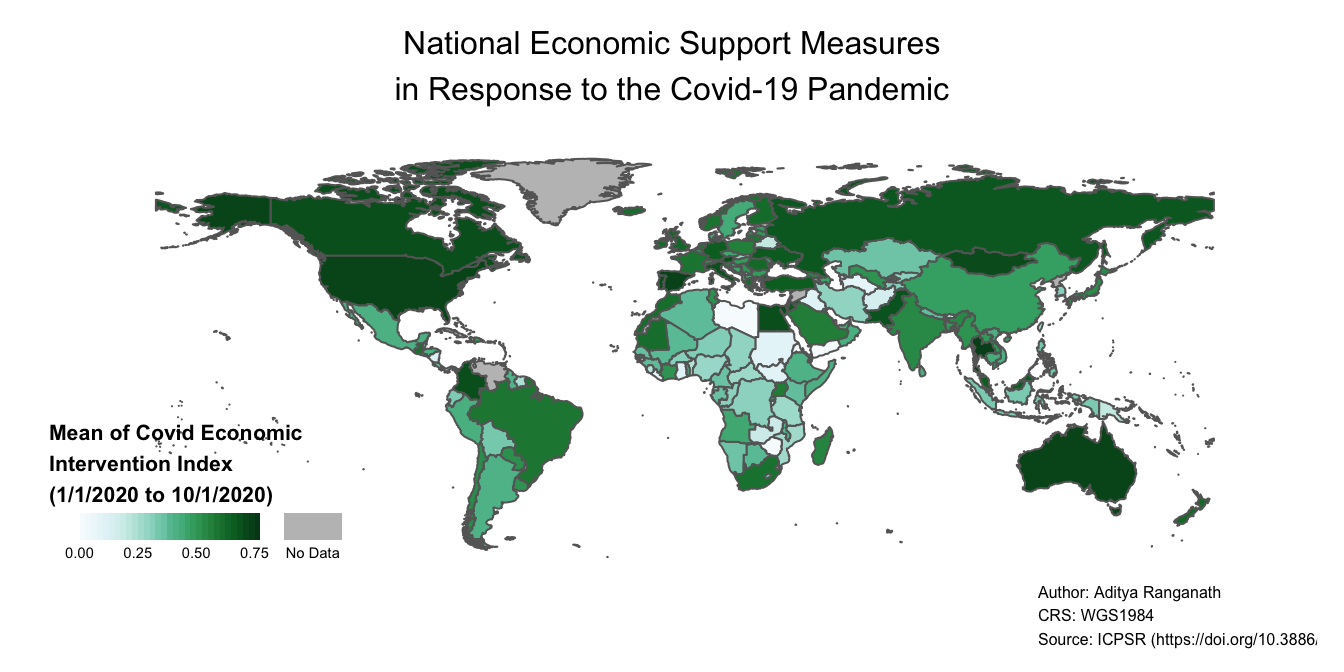
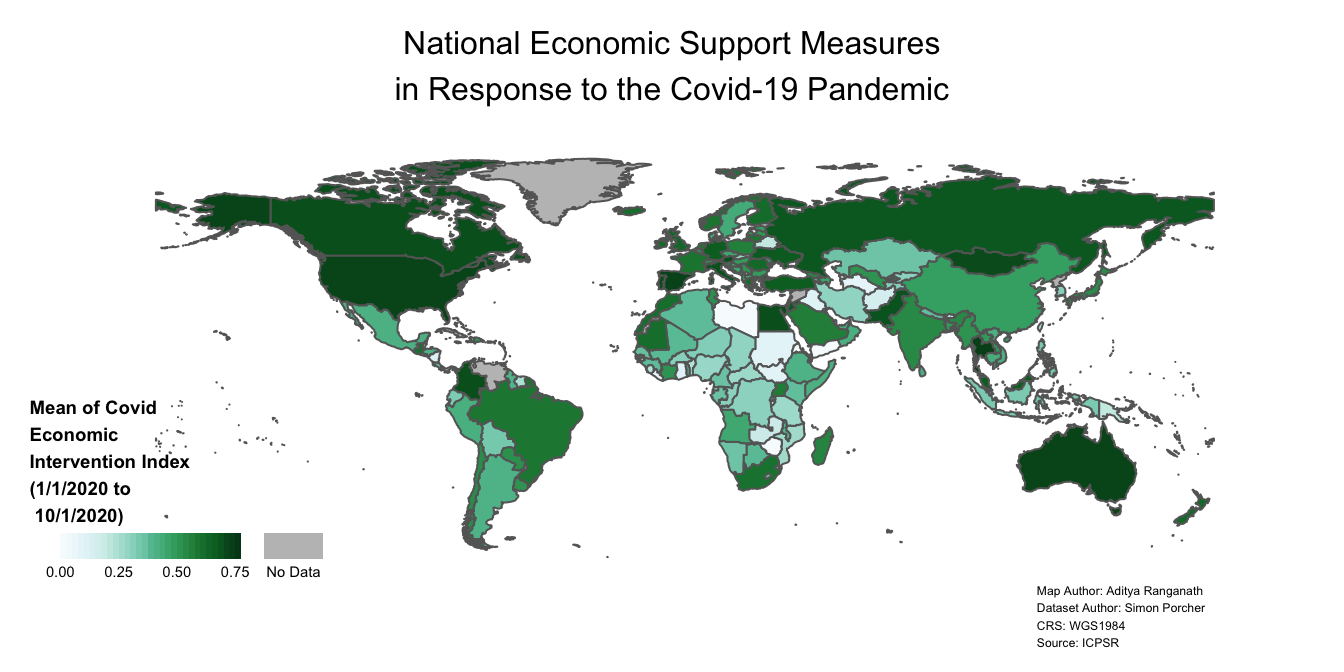
modifies legend code

Changed region(s): [[0.0, 0.5938, 0.2812, 0.875], [0.75, 0.875, 1.0, 0.9688]]

diff --git a/docs/tutorial.html b/docs/tutorial.html
@@ -492,15 +492,15 @@ The <code>tm_polygons</code> function can take a variety of arguments that can h
 <span id="cb41-3"><a href="tutorial.html#cb41-3" aria-hidden="true" tabindex="-1"></a>                                  <span class="at">style=</span><span class="st">&quot;cont&quot;</span>, </span>
 <span id="cb41-4"><a href="tutorial.html#cb41-4" aria-hidden="true" tabindex="-1"></a>                                  <span class="at">palette=</span><span class="st">&quot;BuGn&quot;</span>, </span>
 <span id="cb41-5"><a href="tutorial.html#cb41-5" aria-hidden="true" tabindex="-1"></a>                                  <span class="at">textNA=</span><span class="st">&quot;No Data&quot;</span>, </span>
-<span id="cb41-6"><a href="tutorial.html#cb41-6" aria-hidden="true" tabindex="-1"></a>                                  <span class="at">title=</span><span class="st">&quot;Mean of Covid Economic</span><span class="sc">\n</span><span class="st">Intervention Index</span><span class="sc">\n</span><span class="st">(1/1/2020 to 10/1/2020)&quot;</span>, </span>
+<span id="cb41-6"><a href="tutorial.html#cb41-6" aria-hidden="true" tabindex="-1"></a>                                  <span class="at">title=</span><span class="st">&quot;Mean of Covid</span><span class="sc">\n</span><span class="st">Economic</span><span class="sc">\n</span><span class="st">Intervention Index</span><span class="sc">\n</span><span class="st">(1/1/2020 to</span><span class="sc">\n</span><span class="st"> 10/1/2020)&quot;</span>, </span>
 <span id="cb41-7"><a href="tutorial.html#cb41-7" aria-hidden="true" tabindex="-1"></a>                                  <span class="at">legend.is.portrait=</span><span class="cn">FALSE</span>,</span>
 <span id="cb41-8"><a href="tutorial.html#cb41-8" aria-hidden="true" tabindex="-1"></a>                                  <span class="at">breaks=</span><span class="fu">c</span>(<span class="dv">0</span>,<span class="fl">0.25</span>,<span class="fl">0.5</span>, <span class="fl">0.75</span>))<span class="sc">+</span></span>
-<span id="cb41-9"><a href="tutorial.html#cb41-9" aria-hidden="true" tabindex="-1"></a>                      <span class="fu">tm_layout</span>(<span class="at">legend.title.size=</span><span class="fl">0.8</span>, </span>
+<span id="cb41-9"><a href="tutorial.html#cb41-9" aria-hidden="true" tabindex="-1"></a>                      <span class="fu">tm_layout</span>(<span class="at">legend.title.size=</span><span class="fl">0.7</span>, </span>
 <span id="cb41-10"><a href="tutorial.html#cb41-10" aria-hidden="true" tabindex="-1"></a>                                <span class="at">legend.title.fontface=</span><span class="dv">2</span>,</span>
-<span id="cb41-11"><a href="tutorial.html#cb41-11" aria-hidden="true" tabindex="-1"></a>                                <span class="at">legend.position =</span> <span class="fu">c</span>(<span class="st">&quot;left&quot;</span>, <span class="st">&quot;bottom&quot;</span>), </span>
+<span id="cb41-11"><a href="tutorial.html#cb41-11" aria-hidden="true" tabindex="-1"></a>                                <span class="at">legend.position =</span> <span class="fu">c</span>(<span class="dv">0</span>, <span class="dv">0</span>), </span>
 <span id="cb41-12"><a href="tutorial.html#cb41-12" aria-hidden="true" tabindex="-1"></a>                                <span class="at">frame=</span><span class="cn">FALSE</span>, </span>
 <span id="cb41-13"><a href="tutorial.html#cb41-13" aria-hidden="true" tabindex="-1"></a>                                <span class="at">legend.text.size =</span> <span class="fl">0.5</span>,</span>
-<span id="cb41-14"><a href="tutorial.html#cb41-14" aria-hidden="true" tabindex="-1"></a>                                <span class="at">legend.hist.size =</span> <span class="fl">0.5</span>)</span>
+<span id="cb41-14"><a href="tutorial.html#cb41-14" aria-hidden="true" tabindex="-1"></a>                                <span class="at">legend.width =</span> <span class="fl">0.35</span>)</span>
 <span id="cb41-15"><a href="tutorial.html#cb41-15" aria-hidden="true" tabindex="-1"></a>covid_economic_map</span></code></pre></div>
 <p><img src="bookdownproj_files/figure-html/unnamed-chunk-50-1.png" width="672" /></p>
 <p>Let’s unpack this code; for the sake of completeness, we’ll go over all of the functions and arguments, rather than just the code that implements the changes mentioned above.</p>
@@ -535,37 +535,39 @@ The <code>tm_polygons</code> function can take a variety of arguments that can h
 <div class="sourceCode" id="cb42"><pre class="sourceCode r"><code class="sourceCode r"><span id="cb42-1"><a href="tutorial.html#cb42-1" aria-hidden="true" tabindex="-1"></a>covid_economic_map<span class="ot">&lt;-</span>covid_economic_map<span class="sc">+</span></span>
 <span id="cb42-2"><a href="tutorial.html#cb42-2" aria-hidden="true" tabindex="-1"></a>                       <span class="fu">tm_layout</span>(<span class="at">main.title=</span><span class="st">&quot;National Economic Support Measures</span><span class="sc">\n</span><span class="st">in Response to the Covid-19 Pandemic&quot;</span>, </span>
 <span id="cb42-3"><a href="tutorial.html#cb42-3" aria-hidden="true" tabindex="-1"></a>                                 <span class="at">main.title.position=</span><span class="st">&quot;center&quot;</span>,</span>
-<span id="cb42-4"><a href="tutorial.html#cb42-4" aria-hidden="true" tabindex="-1"></a>                                 <span class="at">main.title.size=</span><span class="dv">1</span>, <span class="at">inner.margins=</span><span class="fu">c</span>(<span class="fl">0.06</span>,<span class="fl">0.10</span>,<span class="fl">0.10</span>,<span class="fl">0.08</span>), </span>
-<span id="cb42-5"><a href="tutorial.html#cb42-5" aria-hidden="true" tabindex="-1"></a>                                 <span class="at">attr.outside =</span> <span class="cn">TRUE</span>)<span class="sc">+</span></span>
-<span id="cb42-6"><a href="tutorial.html#cb42-6" aria-hidden="true" tabindex="-1"></a>                        <span class="fu">tm_credits</span>(<span class="st">&quot;Author: Aditya Ranganath</span><span class="sc">\n</span><span class="st">CRS: WGS1984</span><span class="sc">\n</span><span class="st">Source: ICPSR (https://doi.org/10.3886/E119061V6)&quot;</span>, </span>
-<span id="cb42-7"><a href="tutorial.html#cb42-7" aria-hidden="true" tabindex="-1"></a>                                   <span class="at">position=</span><span class="fu">c</span>(<span class="fl">0.78</span>,<span class="fl">0.01</span>), <span class="at">size=</span><span class="fl">0.5</span>)</span>
-<span id="cb42-8"><a href="tutorial.html#cb42-8" aria-hidden="true" tabindex="-1"></a>  </span>
-<span id="cb42-9"><a href="tutorial.html#cb42-9" aria-hidden="true" tabindex="-1"></a>covid_economic_map </span></code></pre></div>
-<p><img src="bookdownproj_files/figure-html/unnamed-chunk-51-1.png" width="1152" /></p>
+<span id="cb42-4"><a href="tutorial.html#cb42-4" aria-hidden="true" tabindex="-1"></a>                                 <span class="at">main.title.size=</span><span class="dv">1</span>, </span>
+<span id="cb42-5"><a href="tutorial.html#cb42-5" aria-hidden="true" tabindex="-1"></a>                                 <span class="at">inner.margins=</span><span class="fu">c</span>(<span class="fl">0.06</span>,<span class="fl">0.10</span>,<span class="fl">0.10</span>,<span class="fl">0.08</span>), </span>
+<span id="cb42-6"><a href="tutorial.html#cb42-6" aria-hidden="true" tabindex="-1"></a>                                 <span class="at">attr.outside =</span> <span class="cn">TRUE</span>)<span class="sc">+</span></span>
+<span id="cb42-7"><a href="tutorial.html#cb42-7" aria-hidden="true" tabindex="-1"></a>                        <span class="fu">tm_credits</span>(<span class="st">&quot;Map Author: Aditya Ranganath</span><span class="sc">\n</span><span class="st">Dataset Author: Simon Porcher</span><span class="sc">\n</span><span class="st">CRS: WGS1984</span><span class="sc">\n</span><span class="st">Source: ICPSR&quot;</span>, </span>
+<span id="cb42-8"><a href="tutorial.html#cb42-8" aria-hidden="true" tabindex="-1"></a>                                   <span class="at">position=</span><span class="fu">c</span>(<span class="fl">0.78</span>,<span class="dv">0</span>), <span class="at">size=</span><span class="fl">0.38</span>)</span>
+<span id="cb42-9"><a href="tutorial.html#cb42-9" aria-hidden="true" tabindex="-1"></a>  </span>
+<span id="cb42-10"><a href="tutorial.html#cb42-10" aria-hidden="true" tabindex="-1"></a>covid_economic_map </span></code></pre></div>
+<p><img src="bookdownproj_files/figure-html/unnamed-chunk-51-1.png" width="672" /></p>
+<p>Final code</p>
 <div class="sourceCode" id="cb43"><pre class="sourceCode r"><code class="sourceCode r"><span id="cb43-1"><a href="tutorial.html#cb43-1" aria-hidden="true" tabindex="-1"></a>covid_economic_map<span class="ot">&lt;-</span> <span class="fu">tm_shape</span>(worldmap_covid_data_economic)<span class="sc">+</span></span>
-<span id="cb43-2"><a href="tutorial.html#cb43-2" aria-hidden="true" tabindex="-1"></a>                      <span class="fu">tm_polygons</span>(<span class="at">col=</span><span class="st">&quot;mean_economic&quot;</span>, </span>
-<span id="cb43-3"><a href="tutorial.html#cb43-3" aria-hidden="true" tabindex="-1"></a>                                  <span class="at">style=</span><span class="st">&quot;cont&quot;</span>, </span>
-<span id="cb43-4"><a href="tutorial.html#cb43-4" aria-hidden="true" tabindex="-1"></a>                                  <span class="at">palette=</span><span class="st">&quot;BuGn&quot;</span>, </span>
-<span id="cb43-5"><a href="tutorial.html#cb43-5" aria-hidden="true" tabindex="-1"></a>                                  <span class="at">textNA=</span><span class="st">&quot;No Data&quot;</span>, </span>
-<span id="cb43-6"><a href="tutorial.html#cb43-6" aria-hidden="true" tabindex="-1"></a>                                  <span class="at">title=</span><span class="st">&quot;Mean of Covid Economic</span><span class="sc">\n</span><span class="st">Intervention Index</span><span class="sc">\n</span><span class="st">(1/1/2020 to 10/1/2020)&quot;</span>, </span>
-<span id="cb43-7"><a href="tutorial.html#cb43-7" aria-hidden="true" tabindex="-1"></a>                                  <span class="at">legend.is.portrait=</span><span class="cn">FALSE</span>,</span>
-<span id="cb43-8"><a href="tutorial.html#cb43-8" aria-hidden="true" tabindex="-1"></a>                                  <span class="at">breaks=</span><span class="fu">c</span>(<span class="dv">0</span>,<span class="fl">0.25</span>,<span class="fl">0.5</span>, <span class="fl">0.75</span>))<span class="sc">+</span></span>
-<span id="cb43-9"><a href="tutorial.html#cb43-9" aria-hidden="true" tabindex="-1"></a>                        <span class="fu">tm_layout</span>(<span class="at">legend.title.size=</span><span class="fl">0.8</span>, </span>
-<span id="cb43-10"><a href="tutorial.html#cb43-10" aria-hidden="true" tabindex="-1"></a>                                  <span class="at">legend.title.fontface=</span><span class="dv">2</span>,</span>
-<span id="cb43-11"><a href="tutorial.html#cb43-11" aria-hidden="true" tabindex="-1"></a>                                  <span class="at">legend.position =</span> <span class="fu">c</span>(<span class="st">&quot;left&quot;</span>, <span class="st">&quot;bottom&quot;</span>), </span>
-<span id="cb43-12"><a href="tutorial.html#cb43-12" aria-hidden="true" tabindex="-1"></a>                                  <span class="at">frame=</span><span class="cn">FALSE</span>, </span>
-<span id="cb43-13"><a href="tutorial.html#cb43-13" aria-hidden="true" tabindex="-1"></a>                                  <span class="at">legend.text.size =</span> <span class="fl">0.5</span>,</span>
-<span id="cb43-14"><a href="tutorial.html#cb43-14" aria-hidden="true" tabindex="-1"></a>                                  <span class="at">legend.hist.size =</span> <span class="fl">0.5</span>,</span>
-<span id="cb43-15"><a href="tutorial.html#cb43-15" aria-hidden="true" tabindex="-1"></a>                                  <span class="at">main.title=</span><span class="st">&quot;National Economic Support Measures</span><span class="sc">\n</span><span class="st">in Response to the Covid-19 Pandemic&quot;</span>, </span>
-<span id="cb43-16"><a href="tutorial.html#cb43-16" aria-hidden="true" tabindex="-1"></a>                                 <span class="at">main.title.position=</span><span class="st">&quot;center&quot;</span>,</span>
-<span id="cb43-17"><a href="tutorial.html#cb43-17" aria-hidden="true" tabindex="-1"></a>                                 <span class="at">main.title.size=</span><span class="dv">1</span>, <span class="at">inner.margins=</span><span class="fu">c</span>(<span class="fl">0.06</span>,<span class="fl">0.10</span>,<span class="fl">0.10</span>,<span class="fl">0.08</span>), </span>
-<span id="cb43-18"><a href="tutorial.html#cb43-18" aria-hidden="true" tabindex="-1"></a>                                 <span class="at">attr.outside =</span> <span class="cn">TRUE</span>)<span class="sc">+</span></span>
-<span id="cb43-19"><a href="tutorial.html#cb43-19" aria-hidden="true" tabindex="-1"></a>                    <span class="fu">tm_credits</span>(<span class="st">&quot;Author: Aditya Ranganath</span><span class="sc">\n</span><span class="st">CRS: WGS1984</span><span class="sc">\n</span><span class="st">Source: ICPSR (https://doi.org/10.3886/E119061V6)&quot;</span>, </span>
-<span id="cb43-20"><a href="tutorial.html#cb43-20" aria-hidden="true" tabindex="-1"></a>                                 <span class="at">position=</span><span class="fu">c</span>(<span class="fl">0.78</span>,<span class="fl">0.01</span>), </span>
-<span id="cb43-21"><a href="tutorial.html#cb43-21" aria-hidden="true" tabindex="-1"></a>                                 <span class="at">size=</span><span class="fl">0.5</span>)</span>
-<span id="cb43-22"><a href="tutorial.html#cb43-22" aria-hidden="true" tabindex="-1"></a>covid_economic_map</span></code></pre></div>
+<span id="cb43-2"><a href="tutorial.html#cb43-2" aria-hidden="true" tabindex="-1"></a>  <span class="fu">tm_polygons</span>(<span class="at">col=</span><span class="st">&quot;mean_economic&quot;</span>, </span>
+<span id="cb43-3"><a href="tutorial.html#cb43-3" aria-hidden="true" tabindex="-1"></a>              <span class="at">style=</span><span class="st">&quot;cont&quot;</span>, </span>
+<span id="cb43-4"><a href="tutorial.html#cb43-4" aria-hidden="true" tabindex="-1"></a>              <span class="at">palette=</span><span class="st">&quot;BuGn&quot;</span>, </span>
+<span id="cb43-5"><a href="tutorial.html#cb43-5" aria-hidden="true" tabindex="-1"></a>              <span class="at">textNA=</span><span class="st">&quot;No Data&quot;</span>, </span>
+<span id="cb43-6"><a href="tutorial.html#cb43-6" aria-hidden="true" tabindex="-1"></a>              <span class="at">title=</span><span class="st">&quot;Mean of Covid</span><span class="sc">\n</span><span class="st">Economic</span><span class="sc">\n</span><span class="st">Intervention Index</span><span class="sc">\n</span><span class="st">(1/1/2020 to</span><span class="sc">\n</span><span class="st"> 10/1/2020)&quot;</span>, </span>
+<span id="cb43-7"><a href="tutorial.html#cb43-7" aria-hidden="true" tabindex="-1"></a>              <span class="at">legend.is.portrait=</span><span class="cn">FALSE</span>,</span>
+<span id="cb43-8"><a href="tutorial.html#cb43-8" aria-hidden="true" tabindex="-1"></a>              <span class="at">breaks=</span><span class="fu">c</span>(<span class="dv">0</span>,<span class="fl">0.25</span>,<span class="fl">0.5</span>, <span class="fl">0.75</span>))<span class="sc">+</span></span>
+<span id="cb43-9"><a href="tutorial.html#cb43-9" aria-hidden="true" tabindex="-1"></a>  <span class="fu">tm_layout</span>(<span class="at">legend.title.size=</span><span class="fl">0.7</span>, </span>
+<span id="cb43-10"><a href="tutorial.html#cb43-10" aria-hidden="true" tabindex="-1"></a>            <span class="at">legend.title.fontface=</span><span class="dv">2</span>,</span>
+<span id="cb43-11"><a href="tutorial.html#cb43-11" aria-hidden="true" tabindex="-1"></a>            <span class="at">legend.position =</span> <span class="fu">c</span>(<span class="dv">0</span>,<span class="dv">0</span>), </span>
+<span id="cb43-12"><a href="tutorial.html#cb43-12" aria-hidden="true" tabindex="-1"></a>            <span class="at">frame=</span><span class="cn">FALSE</span>, </span>
+<span id="cb43-13"><a href="tutorial.html#cb43-13" aria-hidden="true" tabindex="-1"></a>            <span class="at">legend.text.size =</span> <span class="fl">0.5</span>,</span>
+<span id="cb43-14"><a href="tutorial.html#cb43-14" aria-hidden="true" tabindex="-1"></a>            <span class="at">legend.width=</span><span class="fl">0.35</span>,</span>
+<span id="cb43-15"><a href="tutorial.html#cb43-15" aria-hidden="true" tabindex="-1"></a>            <span class="at">main.title=</span><span class="st">&quot;National Economic Support Measures</span><span class="sc">\n</span><span class="st">in Response to the Covid-19 Pandemic&quot;</span>, </span>
+<span id="cb43-16"><a href="tutorial.html#cb43-16" aria-hidden="true" tabindex="-1"></a>            <span class="at">main.title.position=</span><span class="st">&quot;center&quot;</span>,</span>
+<span id="cb43-17"><a href="tutorial.html#cb43-17" aria-hidden="true" tabindex="-1"></a>            <span class="at">main.title.size=</span><span class="dv">1</span>, <span class="at">inner.margins=</span><span class="fu">c</span>(<span class="fl">0.06</span>,<span class="fl">0.10</span>,<span class="fl">0.10</span>,<span class="fl">0.08</span>), </span>
+<span id="cb43-18"><a href="tutorial.html#cb43-18" aria-hidden="true" tabindex="-1"></a>            <span class="at">attr.outside =</span> <span class="cn">TRUE</span>)<span class="sc">+</span></span>
+<span id="cb43-19"><a href="tutorial.html#cb43-19" aria-hidden="true" tabindex="-1"></a>  <span class="fu">tm_credits</span>(<span class="st">&quot;Map Author: Aditya Ranganath</span><span class="sc">\n</span><span class="st">Dataset Author: Simon Porcher</span><span class="sc">\n</span><span class="st">CRS: WGS1984</span><span class="sc">\n</span><span class="st">Source: ICPSR&quot;</span>, </span>
+<span id="cb43-20"><a href="tutorial.html#cb43-20" aria-hidden="true" tabindex="-1"></a>            <span class="at">position=</span><span class="fu">c</span>(<span class="fl">0.78</span>,<span class="dv">0</span>), </span>
+<span id="cb43-21"><a href="tutorial.html#cb43-21" aria-hidden="true" tabindex="-1"></a>            <span class="at">size=</span><span class="fl">0.38</span>)</span>
+<span id="cb43-22"><a href="tutorial.html#cb43-22" aria-hidden="true" tabindex="-1"></a></span>
+<span id="cb43-23"><a href="tutorial.html#cb43-23" aria-hidden="true" tabindex="-1"></a>covid_economic_map</span></code></pre></div>
 <p><img src="bookdownproj_files/figure-html/unnamed-chunk-52-1.png" width="672" /></p>
-<p>r</p>
 </div>
 </div>
 <div id="export-your-map" class="section level2" number="4.6">
@@ -576,12 +578,6 @@ The <code>tm_polygons</code> function can take a variety of arguments that can h
 </div>
 <div id="summary" class="section level2" number="4.8">
 <h2><span class="header-section-number">4.8</span> Summary</h2>
-<ul>
-<li>Test
-<ul>
-<li>dd</li>
-</ul></li>
-</ul>
 
 </div>
 </div>
